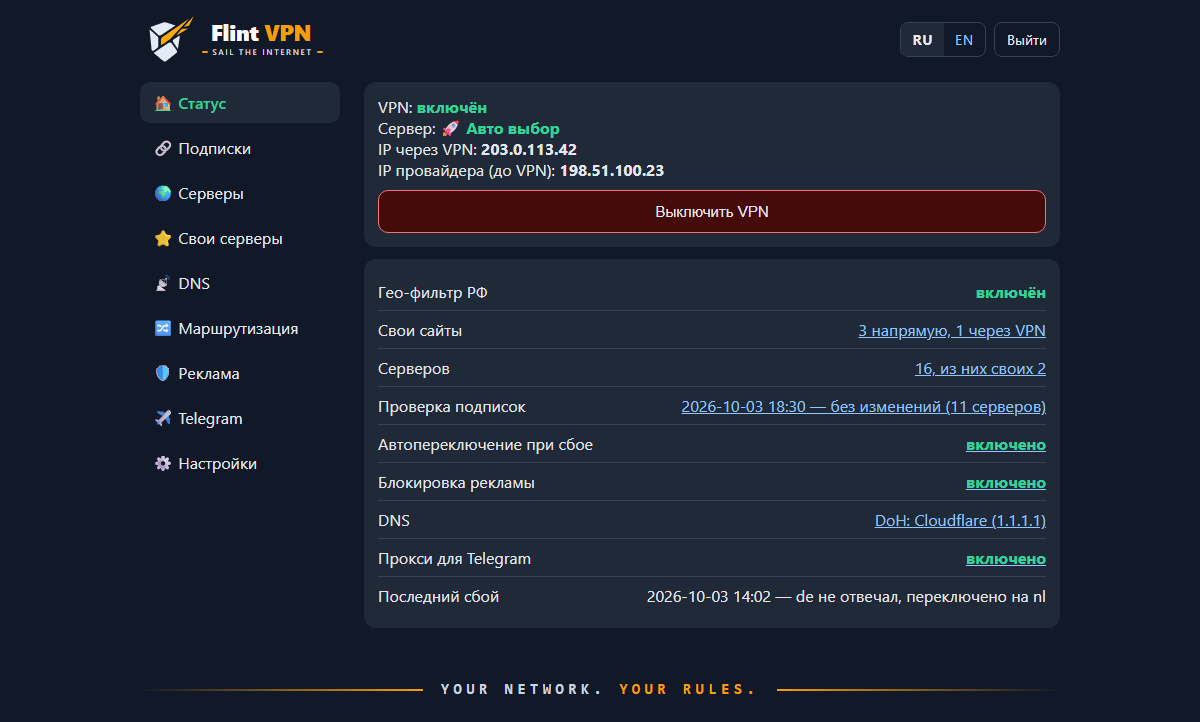
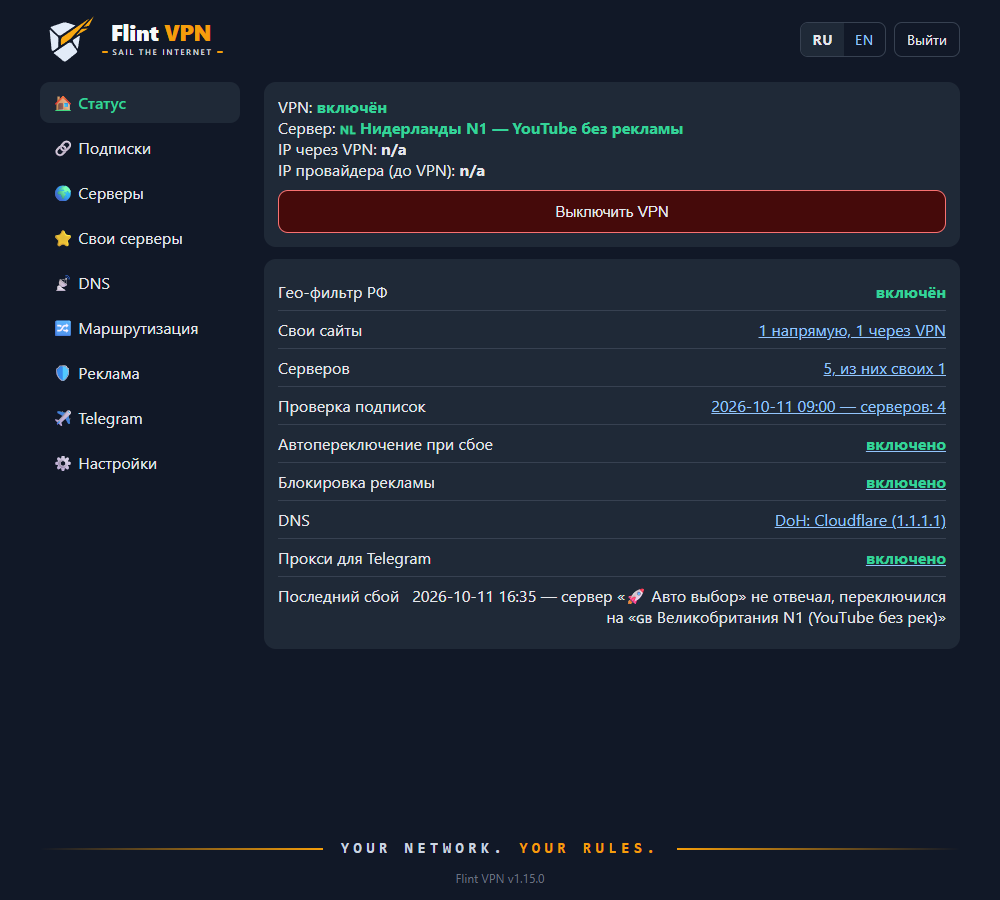
Screenshots refreshed from demo data, and the demo can be run safely
Everything the README shows was taken by hand the last time and carried the old panel; two of the
pictures described screens that no longer exist. They are generated now:

- tests/demo.sh fills the panel with invented data (documentation IP ranges, made-up servers and
  keys) and saves all nine tabs in both languages, with the stylesheet, logo and favicon inlined so
  a page opens from disk;
- tools/screenshot.js captures those pages through headless Chrome over its own DevTools protocol
  (no npm packages), in full height, for the desktop widths the README uses and for a phone;
- both run without restarting anything: the demo writes the current node directly and does not
  apply a config, so Xray keeps running (verified: the pid did not change).

Two things had to be made configurable rather than faked, because the panel reads them from the
router and no setting redirected them: the external address service (IP_LOOKUP in flint.env,
https://ifconfig.me by default, previously written in four places) and the addresses of the
household's devices, which the demo replaces in the saved pages. The whitelist screenshot is gone:
that is a collapsed section inside the Servers tab now, and the panel has no separate screen for it.

The README table was updated for that, and the panel's DNS tab plus a new README section explain
what to do when the encrypted DNS stops working (plan I.2), which was the last item of the plan
that had not been written down.

diff --git a/tools/screenshot.js b/tools/screenshot.js
@@ -1,0 +1,140 @@
+// Screenshots of the panel pages that tests/demo.sh saved, through headless Chrome.
+//
+// Usage: node tools/screenshot.js <dir-with-html> <out-dir> [width] [height] [name-template]
+//   node tools/screenshot.js docs/demo-html docs/screenshots 1000 900
+//   node tools/screenshot.js docs/demo-html docs/screenshots 480 900 "mobile-{tab}.png"
+//
+// Every "<lang>-<tab>.html" in the input directory becomes "<lang>/<name>" in the output directory, with
+// the RU language at the top level and EN in an "en" subdirectory — that is the layout README.md and
+// README.en.md use. A file called "<lang>-login.html" is written as "login.png" (or its template) for the
+// same reason: the names in the README are bare, without the language. The page is captured in full: the
+// height is taken from the document, so the picture is not cut off at the fold, which is what a
+// viewport-sized screenshot would do.
+//
+// Chrome is driven over its own DevTools protocol, so no npm package is needed: it is started with a remote
+// debugging port and the few commands below are sent over a WebSocket (Node has a WebSocket client built in
+// since v22).
+import { spawn } from 'node:child_process';
+import { mkdir, readdir, writeFile, mkdtemp, rm } from 'node:fs/promises';
+import { existsSync } from 'node:fs';
+import { tmpdir } from 'node:os';
+import { join, resolve } from 'node:path';
+
+const [inDir, outDir, widthArg, heightArg, templateArg] = process.argv.slice(2);
+if (!inDir || !outDir) {
+  console.error('usage: node tools/screenshot.js <dir-with-html> <out-dir> [width] [height] [name-template]');
+  process.exit(2);
+}
+const width = Number(widthArg || 1000);
+const height = Number(heightArg || 900);
+const template = templateArg || '{tab}.png';
+const outName = (tab) => template.replace('{tab}', tab);
+
+const CHROME = [
+  'C:\\Program Files\\Google\\Chrome\\Application\\chrome.exe',
+  'C:\\Program Files (x86)\\Google\\Chrome\\Application\\chrome.exe',
+  'C:\\Program Files (x86)\\Microsoft\\Edge\\Application\\msedge.exe',
+  'C:\\Program Files\\Microsoft\\Edge\\Application\\msedge.exe',
+].find((p) => existsSync(p));
+if (!CHROME) {
+  console.error('no Chrome or Edge found: install one, or take the screenshots by hand');
+  process.exit(2);
+}
+
+const port = 9222 + Math.floor(Math.random() * 500);
+const profile = await mkdtemp(join(tmpdir(), 'flint-shot-'));
+const chrome = spawn(CHROME, [
+  '--headless=new',
+  `--remote-debugging-port=${port}`,
+  `--user-data-dir=${profile}`,
+  '--no-first-run',
+  '--no-default-browser-check',
+  '--disable-extensions',
+  '--hide-scrollbars',
+  `--window-size=${width},${height}`,
+], { stdio: 'ignore' });
+
+const sleep = (ms) => new Promise((r) => setTimeout(r, ms));
+
+async function debuggerUrl() {
+  for (let i = 0; i < 60; i++) {
+    try {
+      const answer = await fetch(`http://127.0.0.1:${port}/json/version`);
+      if (answer.ok) return (await answer.json()).webSocketDebuggerUrl;
+    } catch {
+      // Chrome is not listening yet.
+    }
+    await sleep(500);
+  }
+  throw new Error('Chrome did not open its debugging port');
+}
+
+// A minimal client for the browser-level DevTools socket: send an id, wait for the matching answer.
+class CDP {
+  constructor(ws) {
+    this.ws = ws;
+    this.id = 0;
+    this.waiting = new Map();
+    ws.addEventListener('message', (event) => {
+      const message = JSON.parse(event.data);
+      if (message.id && this.waiting.has(message.id)) {
+        const { resolve, reject } = this.waiting.get(message.id);
+        this.waiting.delete(message.id);
+        message.error ? reject(new Error(message.error.message)) : resolve(message.result);
+      }
+    });
+  }
+  send(method, params = {}, sessionId) {
+    const id = ++this.id;
+    this.ws.send(JSON.stringify({ id, method, params, ...(sessionId ? { sessionId } : {}) }));
+    return new Promise((resolve, reject) => this.waiting.set(id, { resolve, reject }));
+  }
+}
+
+const socket = new WebSocket(await debuggerUrl());
+await new Promise((resolve, reject) => {
+  socket.addEventListener('open', resolve);
+  socket.addEventListener('error', reject);
+});
+const cdp = new CDP(socket);
+
+const pages = (await readdir(inDir)).filter((f) => f.endsWith('.html'));
+if (pages.length === 0) throw new Error(`no .html files in ${inDir}: run tests/demo.sh first`);
+
+let saved = 0;
+for (const file of pages.sort()) {
+  const match = /^(ru|en)-(.+)\.html$/.exec(file);
+  if (!match) {
+    console.log(`  ${file}: skipped (expected "<ru|en>-<tab>.html")`);
+    continue;
+  }
+  const lang = match[1];
+  const tab = match[2];
+  const target = await cdp.send('Target.createTarget', { url: 'about:blank' });
+  const attached = await cdp.send('Target.attachToTarget', { targetId: target.targetId, flatten: true });
+  const session = attached.sessionId;
+
+  await cdp.send('Emulation.setDeviceMetricsOverride', { width, height, deviceScaleFactor: 1, mobile: false }, session);
+  await cdp.send('Page.enable', {}, session);
+  await cdp.send('Page.navigate', { url: `file:///${resolve(inDir, file).replace(/\\/g, '/')}` }, session);
+  // The panel is plain HTML with an inlined stylesheet: waiting for the load event is enough, and a short
+  // pause covers the font and the SVG.
+  await sleep(700);
+  const metrics = await cdp.send('Page.getLayoutMetrics', {}, session);
+  const full = Math.max(height, Math.ceil(metrics.cssContentSize?.height || metrics.contentSize?.height || height));
+  const shot = await cdp.send('Page.captureScreenshot', { format: 'png', captureBeyondViewport: true, clip: { x: 0, y: 0, width, height: full, scale: 1 } }, session);
+  await cdp.send('Target.closeTarget', { targetId: target.targetId });
+
+  const dir = lang === 'en' ? join(outDir, 'en') : outDir;
+  await mkdir(dir, { recursive: true });
+  const out = join(dir, outName(tab));
+  await writeFile(out, Buffer.from(shot.data, 'base64'));
+  saved++;
+  console.log(`  ${file} -> ${out} (${width}x${full})`);
+}
+
+socket.close();
+chrome.kill();
+await sleep(300);
+await rm(profile, { recursive: true, force: true });
+console.log(`saved ${saved} of ${pages.length} pages`);

diff --git a/CHANGELOG.md b/CHANGELOG.md
@@ -45,6 +45,9 @@
 ## [Не выпущено]
 
 ### Добавлено
+- **Скриншоты панели обновляются одной командой.** `tests/demo.sh` на роутере наполняет панель выдуманными данными и сохраняет все вкладки в двух языках, а `tools/screenshot.js` снимает их через headless-браузер (Chrome управляется по собственному протоколу DevTools, без сторонних пакетов). Данные намеренно выдуманные: адреса из документационных диапазонов, выдуманные серверы и ключи, а адреса, которые панель берёт у роутера, заменяются на `192.0.2.10` — так в опубликованные картинки не попадают ни внешний адрес, ни адреса домашних устройств. Демо ничего не перезапускает: Xray не трогается вообще.
+- **Адрес, по которому роутер узнаёт свой внешний IP, стал настройкой** (`IP_LOOKUP` в `/etc/xray/flint.env`, по умолчанию `https://ifconfig.me`); раньше он был вписан в четырёх местах. Нужно и в жизни — если сервис недоступен, — и для демо, которое направляет запрос на свой локальный ответ.
+- Локальный аналог CI — `tools/check.ps1`: запускает на машине разработчика то же, что делает GitHub Actions.
 - Сценарий `tests/router/adblock.sh`: проверяет, что блокировка рекламы переживает восстановление. Ссылки на списки, свои правила и исключения лежат в `/etc/xray` и входят в бэкап, а скачанный кеш фильтров в `/etc/flint-adguard` — нет; сценарий намеренно выбрасывает кеш и убеждается, что AdGuard Home скачивает списки заново, блокировка отвечает, а исходный кеш возвращается на место. В README (оба языка) добавлено пояснение про это поведение.
 - Предкоммит-проверка секретов (`tools/check-secrets.sh`, хук `.githooks/pre-commit`): не даёт закоммитить ссылку подписки, PIN панели, пароль Wi-Fi или приватный ключ. Проверяет и то, что файлы пользователя (`config/flint.env`, `config/subscriptions` и остальные из `kit/state-files`) не попали в индекс, а значения с этой машины не встречаются в остальных файлах; документация и `*.example` пропускаются, потому что там форматы показаны намеренно. Включается один раз: `git config core.hooksPath .githooks`.
 - Проверки без роутера (`tools/check-scripts.sh`) и CI (`.github/workflows/checks.yml`): синтаксис всех скриптов комплекта, отсутствие CRLF (busybox ash такой файл не разбирает), валидность шаблона Xray с подстановкой плейсхолдеров по типу, наличие обязательных входов и выходов, предупреждение о плейсхолдере, который никто не подставляет, и `shellcheck`.

diff --git a/README.md b/README.md
@@ -66,20 +66,19 @@ Flint VPN превращает роутер GL.iNet в прозрачный VPN-
 | ![Вход](docs/screenshots/login.png) | ![Статус](docs/screenshots/status.png) |
 | **Подписки** | **Серверы** |
 | ![Подписки](docs/screenshots/subs.png) | ![Серверы](docs/screenshots/servers.png) |
-| **Белые списки** | **Свои серверы** |
-| ![Белые списки](docs/screenshots/whitelist.png) | ![Свои серверы](docs/screenshots/own.png) |
-| **Редактирование сервера** | **DNS** |
-| ![Редактирование](docs/screenshots/edit.png) | ![DNS](docs/screenshots/dns.png) |
-| **Маршрутизация** | **Блокировка рекламы** |
-| ![Маршрутизация](docs/screenshots/routing.png) | ![Блокировка рекламы](docs/screenshots/adblock.png) |
-| **Прокси для Telegram** | **Настройки** |
-| ![Прокси для Telegram](docs/screenshots/telegram.png) | ![Настройки](docs/screenshots/settings.png) |
-| **Телефон** | **Телефон: серверы** |
-| ![Телефон](docs/screenshots/mobile-status.png) | ![Телефон: серверы](docs/screenshots/mobile-servers.png) |
-| **Телефон: Telegram** | **Без серверов** |
+| **Свои серверы** | **Добавление сервера** |
+| ![Свои серверы](docs/screenshots/own.png) | ![Добавление сервера](docs/screenshots/edit.png) |
+| **DNS** | **Маршрутизация** |
+| ![DNS](docs/screenshots/dns.png) | ![Маршрутизация](docs/screenshots/routing.png) |
+| **Блокировка рекламы** | **Прокси для Telegram** |
+| ![Блокировка рекламы](docs/screenshots/adblock.png) | ![Прокси для Telegram](docs/screenshots/telegram.png) |
+| **Настройки** | **Телефон** |
+| ![Настройки](docs/screenshots/settings.png) | ![Телефон](docs/screenshots/mobile-status.png) |
+| **Телефон: серверы** | **Телефон: Telegram** |
+| ![Телефон: серверы](docs/screenshots/mobile-servers.png) | ![Телефон: Telegram](docs/screenshots/mobile-telegram.png) |
 | ![Телефон: Telegram](docs/screenshots/mobile-telegram.png) | ![Без серверов](docs/screenshots/empty.png) |
 
-На скриншотах демо-данные: адреса из документационных диапазонов, выдуманные серверы и ключи.
+На скриншотах демо-данные: адреса из документационных диапазонов, выдуманные серверы и ключи. Обновляются они одной командой — `tests/demo.sh` на роутере сохраняет все страницы в двух языках, а `tools/screenshot.js` снимает их через headless-браузер.
 
 ## Как это работает
 

diff --git a/CHANGELOG.en.md b/CHANGELOG.en.md
@@ -45,6 +45,9 @@ Versions before 1.0.0 were assigned afterwards from the commit history.
 ## [Unreleased]
 
 ### Added
+- **The panel screenshots are refreshed with one command.** `tests/demo.sh` on the router fills the panel with invented data and saves every tab in both languages, and `tools/screenshot.js` captures them through a headless browser (Chrome is driven over its own DevTools protocol, with no third-party packages). The data is deliberately made up: documentation IP ranges, invented servers and keys, and the addresses the panel reads from the router are replaced with `192.0.2.10`, so neither the external address nor the household's device addresses reach a published picture. The demo restarts nothing at all: Xray is not touched.
+- **The service the router asks for its own external address is a setting** (`IP_LOOKUP` in `/etc/xray/flint.env`, `https://ifconfig.me` by default); it used to be written in four places. Useful in real life — if that service is unreachable — and for the demo, which points it at its own local answer.
+- `tools/check.ps1`, the local equivalent of the CI job: it runs on a developer machine what GitHub Actions runs.
 - The `tests/router/adblock.sh` scenario: it checks that ad blocking survives a restore. The filter list URLs, your rules and exclusions live in `/etc/xray` and are part of a backup, while the downloaded filter cache in `/etc/flint-adguard` is not; the scenario deliberately throws the cache away and verifies that AdGuard Home downloads the lists again, that blocking answers, and that the original cache is put back. Both READMEs explain this behaviour now.
 - A pre-commit secret check (`tools/check-secrets.sh`, hook `.githooks/pre-commit`): it refuses to commit a subscription link, the panel PIN, a Wi-Fi password or a private key. It also checks that the files a user fills in (`config/flint.env`, `config/subscriptions` and the rest of `kit/state-files`) are not in the index and that the values from this machine do not appear in other files; documentation and `*.example` are skipped because they show the formats on purpose. Enable it once: `git config core.hooksPath .githooks`.
 - Router-free checks (`tools/check-scripts.sh`) and CI (`.github/workflows/checks.yml`): the syntax of every kit script, the absence of CRLF (busybox ash does not parse such a file), the Xray template being valid JSON with placeholders filled by type, the required inbounds and outbounds still being there, a warning about a placeholder nobody substitutes, and `shellcheck`.

diff --git a/README.en.md b/README.en.md
@@ -67,20 +67,22 @@ The panel is available in English and Russian: the language follows your browser
 | ![Login](docs/screenshots/en/login.png) | ![Status](docs/screenshots/en/status.png) |
 | **Subscriptions** | **Servers** |
 | ![Subscriptions](docs/screenshots/en/subs.png) | ![Servers](docs/screenshots/en/servers.png) |
-| **White lists** | **Own servers** |
-| ![White lists](docs/screenshots/en/whitelist.png) | ![Own servers](docs/screenshots/en/own.png) |
-| **Editing a server** | **DNS** |
-| ![Edit](docs/screenshots/en/edit.png) | ![DNS](docs/screenshots/en/dns.png) |
-| **Routing** | **Ad blocking** |
-| ![Routing](docs/screenshots/en/routing.png) | ![Ad blocking](docs/screenshots/en/adblock.png) |
-| **Telegram proxy** | **Settings** |
-| ![Telegram proxy](docs/screenshots/en/telegram.png) | ![Settings](docs/screenshots/en/settings.png) |
-| **Phone** | **Phone: servers** |
-| ![Phone](docs/screenshots/en/mobile-status.png) | ![Phone: servers](docs/screenshots/en/mobile-servers.png) |
-| **Phone: Telegram** | **No servers** |
-| ![Phone: Telegram](docs/screenshots/en/mobile-telegram.png) | ![No servers](docs/screenshots/en/empty.png) |
+| **Own servers** | **Adding a server** |
+| ![Own servers](docs/screenshots/en/own.png) | ![Adding a server](docs/screenshots/en/edit.png) |
+| **DNS** | **Routing** |
+| ![DNS](docs/screenshots/en/dns.png) | ![Routing](docs/screenshots/en/routing.png) |
+| **Ad blocking** | **Telegram proxy** |
+| ![Ad blocking](docs/screenshots/en/adblock.png) | ![Telegram proxy](docs/screenshots/en/telegram.png) |
+| **Settings** | **Phone** |
+| ![Settings](docs/screenshots/en/settings.png) | ![Phone](docs/screenshots/en/mobile-status.png) |
+| **Phone: servers** | **Phone: Telegram** |
+| ![Phone: servers](docs/screenshots/en/mobile-servers.png) | ![Phone: Telegram](docs/screenshots/en/mobile-telegram.png) |
+| **No servers** |  |
+| ![No servers](docs/screenshots/en/empty.png) |  |
 
-The screenshots use demo data: documentation IP ranges, made-up servers and keys.
+The screenshots use demo data: documentation IP ranges, made-up servers and keys. They are refreshed with one
+command — `tests/demo.sh` on the router saves every page in both languages, and `tools/screenshot.js` captures
+them through a headless browser.
 
 ## How it works
 
